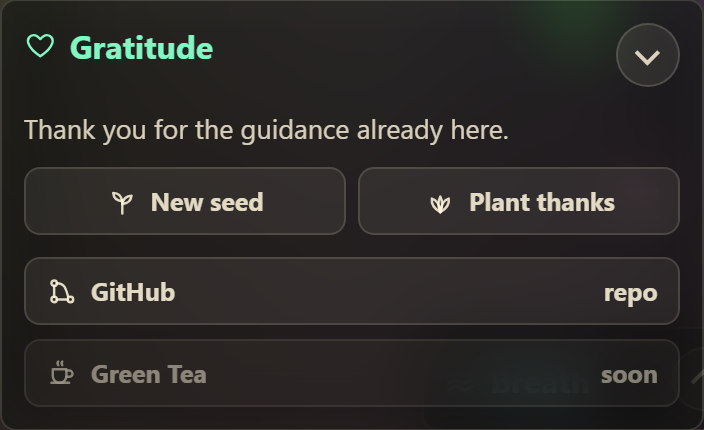
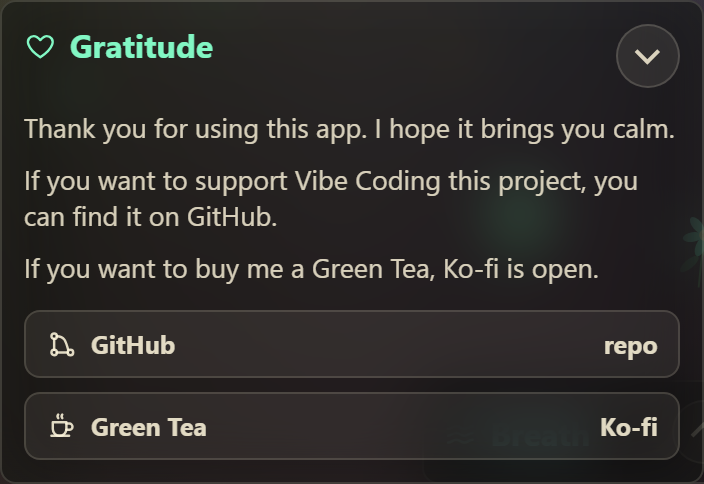
update gratitude

diff --git a/index.html b/index.html
@@ -673,22 +673,22 @@
       display: grid;
     }
 
+    .gratitude-copy {
+      display: grid;
+      gap: 0.48rem;
+      margin: 0 0 0.78rem;
+    }
+
     .gratitude-line {
-      margin: 0 0 0.7rem;
+      margin: 0;
       color: rgba(255, 247, 221, 0.82);
       font-size: 0.84rem;
       line-height: 1.35;
     }
 
-    .soft-actions,
     .link-stack {
       display: grid;
       gap: 0.42rem;
-    }
-
-    .soft-actions {
-      grid-template-columns: 1fr 1fr;
-      margin-bottom: 0.64rem;
     }
 
     .soft-command,
@@ -1236,14 +1236,14 @@
       </div>
 
       <div class="chakra-body" id="gratitudeBody">
-        <p class="gratitude-line" id="gratitudeLine">Thank you for the guidance already here.</p>
-        <div class="soft-actions">
-          <button class="soft-command" id="gratitudeNext" type="button"><svg class="symbol-icon" aria-hidden="true"><use href="#icon-seed"></use></svg><span>New seed</span></button>
-          <button class="soft-command" id="gratitudePlant" type="button"><svg class="symbol-icon" aria-hidden="true"><use href="#icon-lotus"></use></svg><span>Plant thanks</span></button>
+        <div class="gratitude-copy">
+          <p class="gratitude-line">Thank you for using this app. I hope it brings you calm.</p>
+          <p class="gratitude-line">If you want to support Vibe Coding this project, you can find it on GitHub.</p>
+          <p class="gratitude-line">If you want to buy me a Green Tea, Ko-fi is open.</p>
         </div>
         <div class="link-stack">
           <a class="support-link" href="https://github.com/analysethatltd-hub/manifestation-meditation-page" target="_blank" rel="noopener noreferrer"><span><svg class="symbol-icon" aria-hidden="true"><use href="#icon-branch"></use></svg> GitHub</span><span aria-hidden="true">repo</span></a>
-          <a class="support-link" id="greenTeaLink" href="#" aria-disabled="true"><span><svg class="symbol-icon" aria-hidden="true"><use href="#icon-tea"></use></svg> Green Tea</span><span aria-hidden="true">soon</span></a>
+          <a class="support-link" id="greenTeaLink" href="#" target="_blank" rel="noopener noreferrer"><span><svg class="symbol-icon" aria-hidden="true"><use href="#icon-tea"></use></svg> Green Tea</span><span aria-hidden="true">Ko-fi</span></a>
         </div>
       </div>
     </aside>
@@ -1353,9 +1353,6 @@
         gratitudePanel: document.getElementById("gratitudePanel"),
         gratitudeBody: document.getElementById("gratitudeBody"),
         gratitudeToggle: document.getElementById("gratitudeToggle"),
-        gratitudeLine: document.getElementById("gratitudeLine"),
-        gratitudeNext: document.getElementById("gratitudeNext"),
-        gratitudePlant: document.getElementById("gratitudePlant"),
         greenTeaLink: document.getElementById("greenTeaLink"),
         breathPanel: document.getElementById("breathPanel"),
         breathBody: document.getElementById("breathBody"),
@@ -1431,16 +1428,7 @@
         "The blessing is not separate from my healing."
       ];
 
-      const GRATITUDE_LINES = [
-        "Thank you for the guidance already here.",
-        "Thank you for the door opening gently.",
-        "Thank you for the desire becoming devotion.",
-        "Thank you for what is healing in silence.",
-        "Thank you for the blessing I can carry well.",
-        "Thank you for the next right breath.",
-        "Thank you for the garden growing while I become ready."
-      ];
-      const GREEN_TEA_URL = "";
+      const GREEN_TEA_URL = "https://ko-fi.com/analysethat";
       const GARDEN_KEY = "manifestationGarden.v1";
       const GARDEN_LIMIT = 420;
       const PLANT_INTERVAL_MS = 72000;
@@ -1482,7 +1470,6 @@
         mediaFrequency: 0,
         isMobileAudio: forceTouchAudio || mobileUserAgent || touchConstrainedAudio,
         lastAudioGesture: "none",
-        gratitudeIndex: 0,
         panelCollapsed: mobileControls.matches,
         panelUserSet: false,
         panelGesture: null,
@@ -1631,11 +1618,6 @@
         state.activeBreath = -1;
         state.breathStart = performance.now();
         syncBreathControls();
-      }
-
-      function setGratitude(index) {
-        state.gratitudeIndex = (index + GRATITUDE_LINES.length) % GRATITUDE_LINES.length;
-        els.gratitudeLine.textContent = GRATITUDE_LINES[state.gratitudeIndex];
       }
 
       function buildChakraButtons() {
@@ -1866,15 +1848,6 @@
           if (event.key === "Escape" && !els.gardenResetConfirm.hidden) {
             closeGardenResetConfirm();
           }
-        });
-
-        els.gratitudeNext.addEventListener("click", () => {
-          setGratitude(state.gratitudeIndex + 1);
-        });
-
-        els.gratitudePlant.addEventListener("click", () => {
-          setGratitude(state.gratitudeIndex + 1);
-          plantGratitude();
         });
 
         els.greenTeaLink.addEventListener("click", (event) => {
@@ -2158,24 +2131,6 @@
       function confirmResetGarden() {
         els.gardenResetConfirm.hidden = true;
         resetGarden();
-      }
-
-      function plantGratitude() {
-        if (state.width === 0 || state.height === 0) {
-          return;
-        }
-
-        const now = Date.now();
-        for (let index = 0; index < 5; index += 1) {
-          const point = randomGardenPoint();
-          const plant = gardenPointToPlant(point, "flower", now - 7 * 60 * 1000 * Math.random());
-          state.garden.plants.push(plant);
-        }
-        if (state.garden.plants.length > GARDEN_LIMIT) {
-          state.garden.plants = state.garden.plants.slice(-GARDEN_LIMIT);
-        }
-        state.garden.bee.pollen = 1;
-        saveGarden();
       }
 
       function chooseBeeTarget() {
@@ -3386,13 +3341,11 @@
       if (GREEN_TEA_URL) {
         els.greenTeaLink.href = GREEN_TEA_URL;
         els.greenTeaLink.removeAttribute("aria-disabled");
-        els.greenTeaLink.querySelector("span").textContent = "tip";
       }
       setChakra(0);
       setVolume(52);
       syncAudioToggle();
       syncBreathControls();
-      setGratitude(0);
       resize();
       if (shouldPrimeMediaAudio()) {
         const idle = window.requestIdleCallback || ((callback) => window.setTimeout(callback, 250));

diff --git a/README.md b/README.md
@@ -60,11 +60,11 @@ These images are captured from real app states and then presented as product ass
   </tr>
   <tr>
     <td width="50%" valign="top">
-      <img src="docs/control-gratitude-support.png" alt="Gratitude panel with new seed, plant thanks, GitHub, and Green Tea controls" width="100%">
+      <img src="docs/control-gratitude-support.png" alt="Gratitude panel with thank-you text, GitHub, and Green Tea controls" width="100%">
       <br>
       <strong>Gratitude and support</strong>
       <br>
-      Plant a gratitude seed, visit the GitHub repo, or prepare the Green Tea support link once a donation URL exists.
+      Read a simple thank-you note, visit the GitHub repo, or buy a Green Tea through Ko-fi.
     </td>
     <td width="50%" valign="top">
       <img src="docs/control-garden-reset.png" alt="Garden reset confirmation with flower icon and bee interaction" width="100%">
@@ -121,14 +121,13 @@ http://127.0.0.1:4178/index.html
 
 ## Green Tea Support
 
-The Green Tea button is already designed into the experience, but it is intentionally disabled until a support URL exists.
+The Green Tea button inside the Gratitude panel is wired to:
 
-To activate it:
+```text
+https://ko-fi.com/analysethat
+```
 
-1. Create a support link with Ko-fi, Buy Me a Coffee, GitHub Sponsors, Stripe Payment Links, PayPal, or similar.
-2. Copy the public support URL.
-3. Put that URL into `GREEN_TEA_URL` in `index.html`.
-4. Publish the updated page.
+The public app keeps the language in-theme while Ko-fi handles the support flow.
 
 ## Note
 
